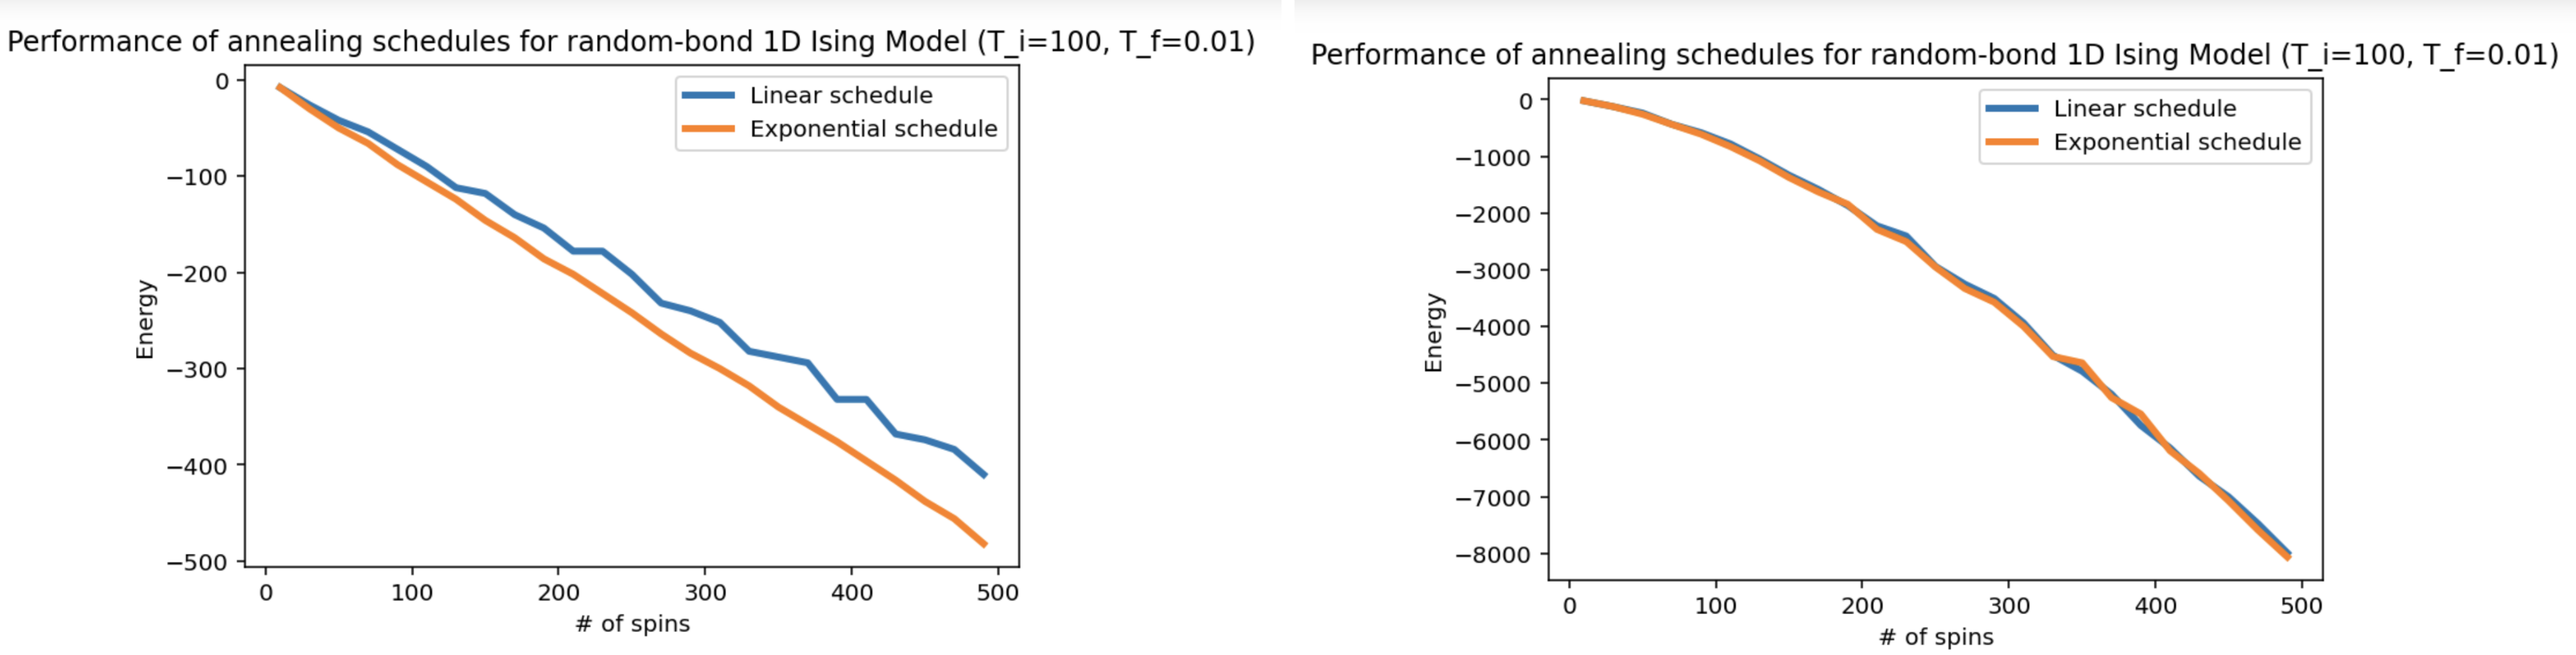
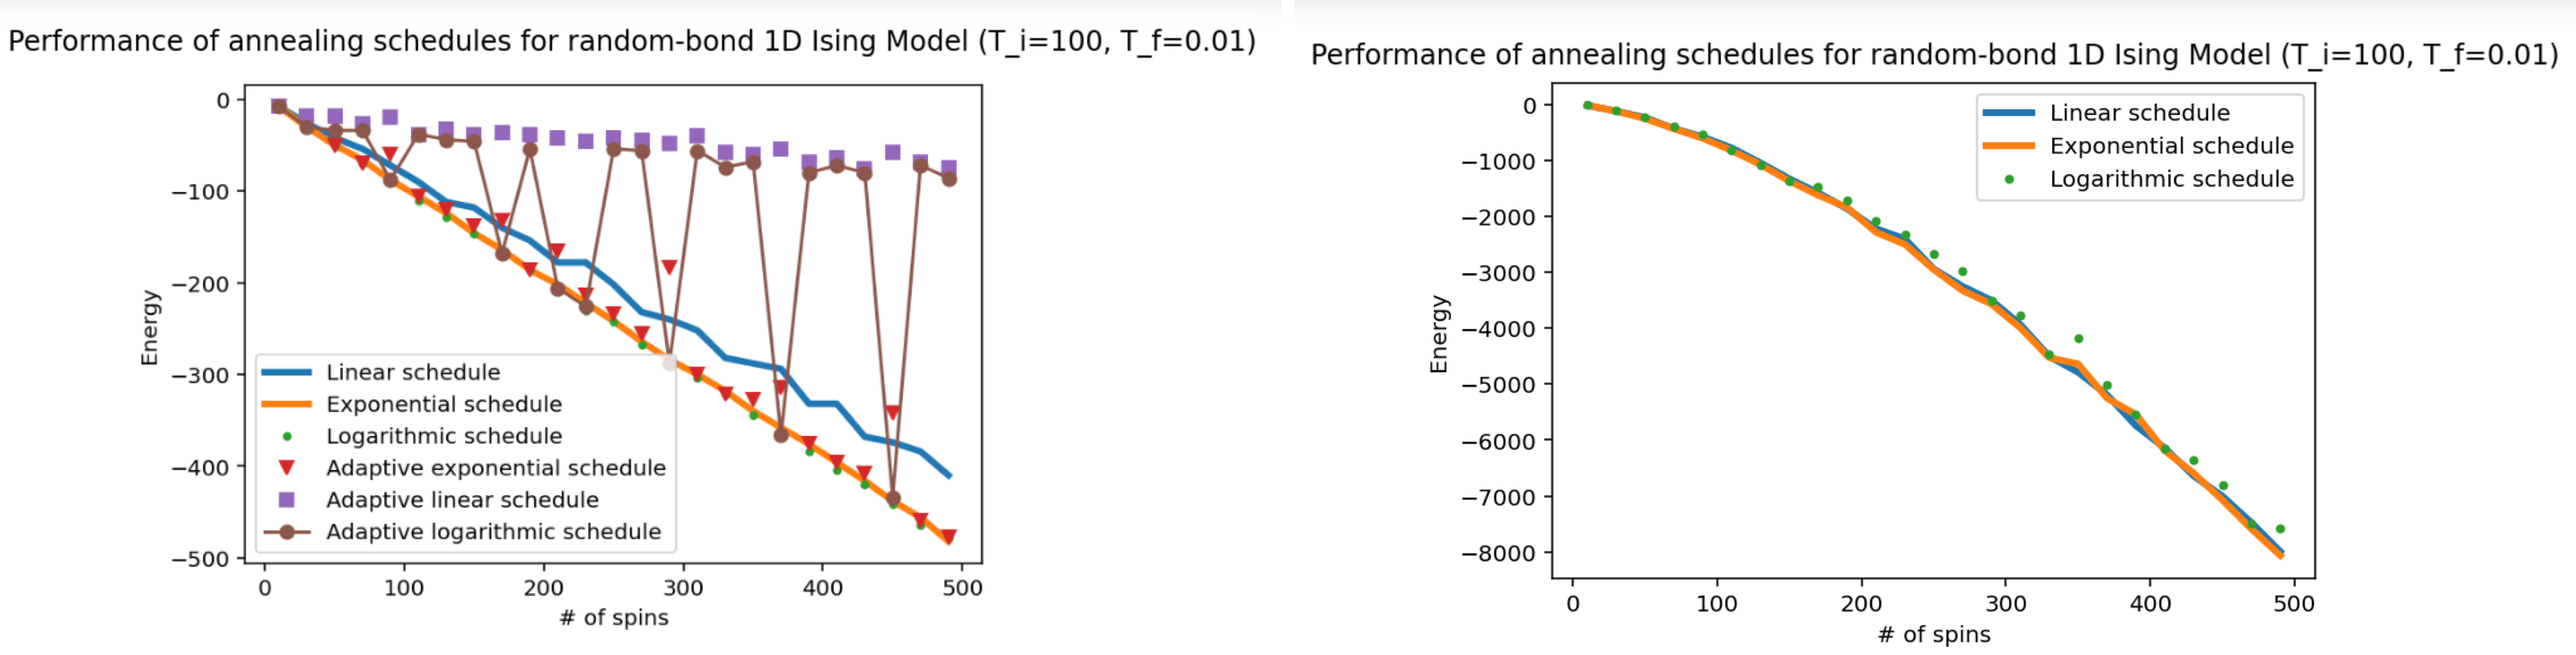
Fix description of Task2 / added scheduling in readme Image.

diff --git a/Project_4_Ising_Annealer/README.md b/Project_4_Ising_Annealer/README.md
@@ -32,8 +32,8 @@ connected Mattis model. The results of these calculations are illustrated in the
 <p align="center">
 <figure>
   <img src="img/Task2_comparison.png" alt="The results for task 2" style="width: 30%; height: 30%">
-  <figcaption>  <b>Figure: </b> <em> <b>Left-</b> The energy vs number of spin objects for an Ising model using a linear annealing schedule and an exponential schedule. 
-  <b>Right-</b> The energy vs number of spin objects for the Mattis model using the linear and exponential annealing schedule. </em> </figcaption>
+  <figcaption>  <b>Figure: </b> <em> <b>Left-</b> The energy vs number of spin objects for an 1D periodic boundary condition Ising model using various schedules. 
+  <b>Right-</b> The energy vs number of spin objects for the fully connected Ising model using the linear, exponential and logarithmic annealing schedule. </em> </figcaption>
 </figure>
 </p>
 
